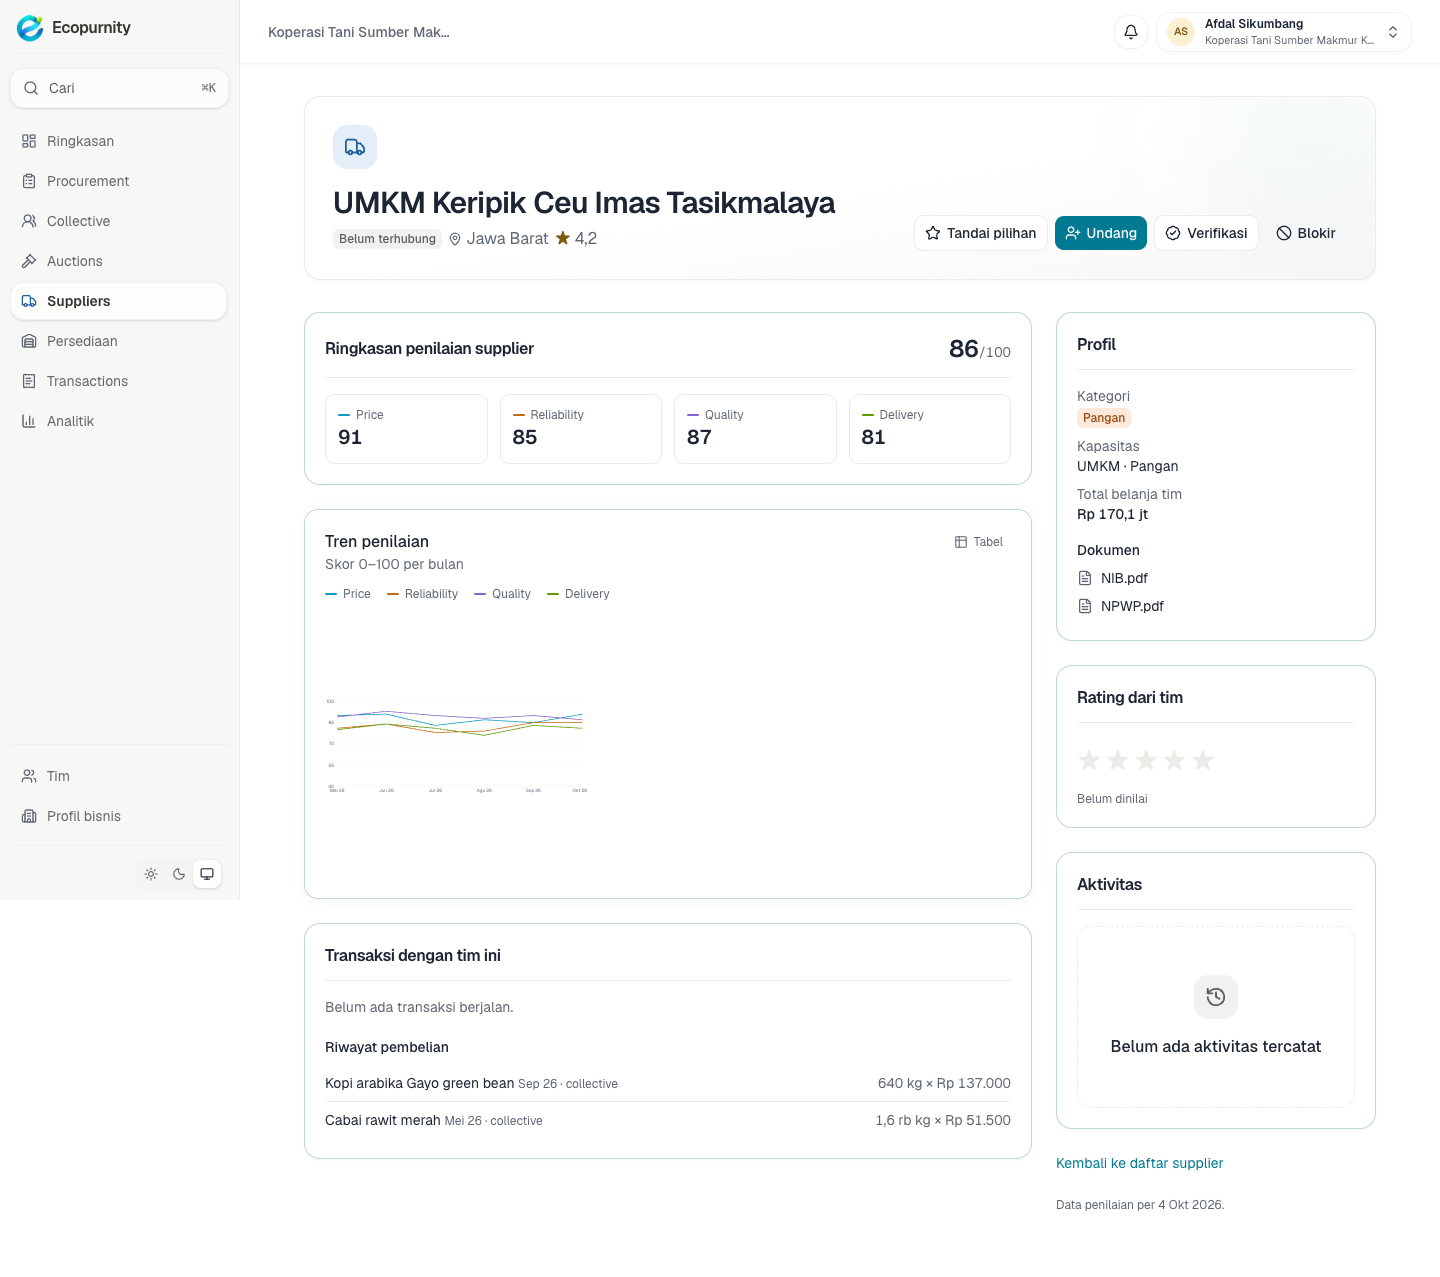
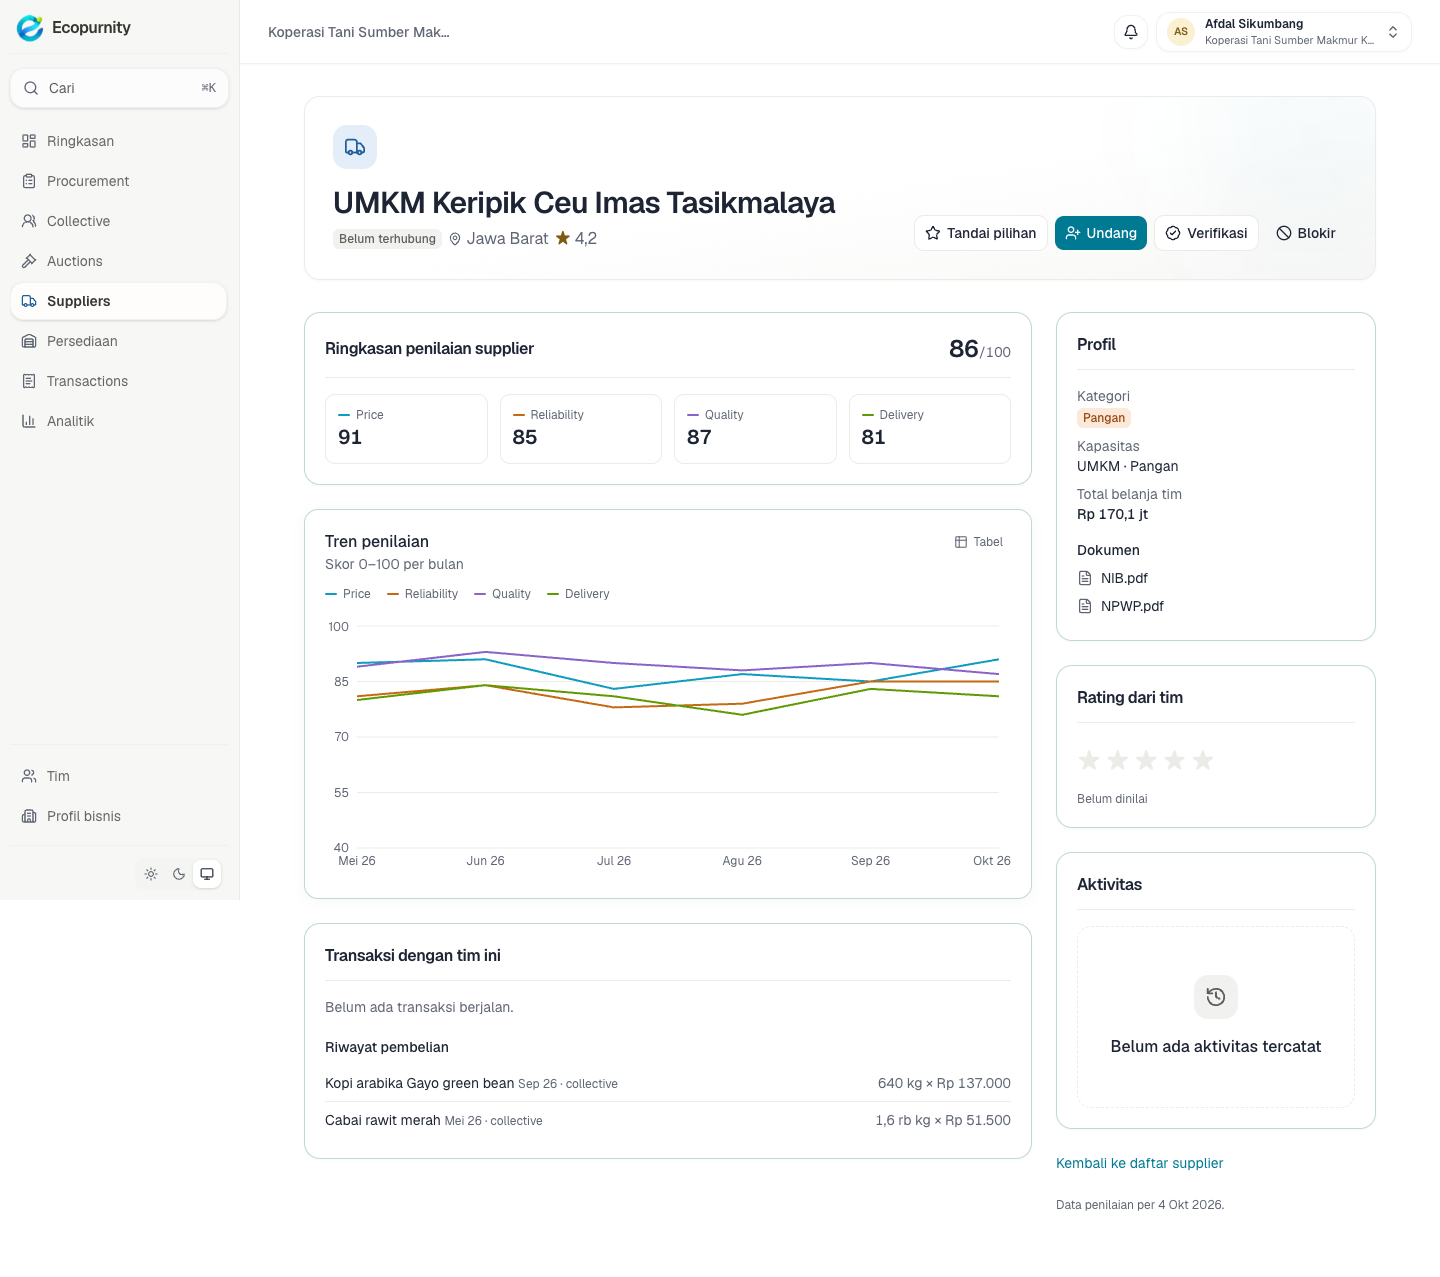
docs: refresh organisation screenshots

Changed region(s): [[0.2188, 0.4886, 0.6875, 0.5803]]

diff --git a/docs/screenshots/README.md b/docs/screenshots/README.md
@@ -164,10 +164,6 @@ Halaman Ecopurnity dengan data demo (1440 px, tema terang).
 
 ![44b-org-supplier-detail](44b-org-supplier-detail.png)
 
-### 45-org-inventory
-
-![45-org-inventory](45-org-inventory.png)
-
 ### 46-org-transactions
 
 ![46-org-transactions](46-org-transactions.png)
